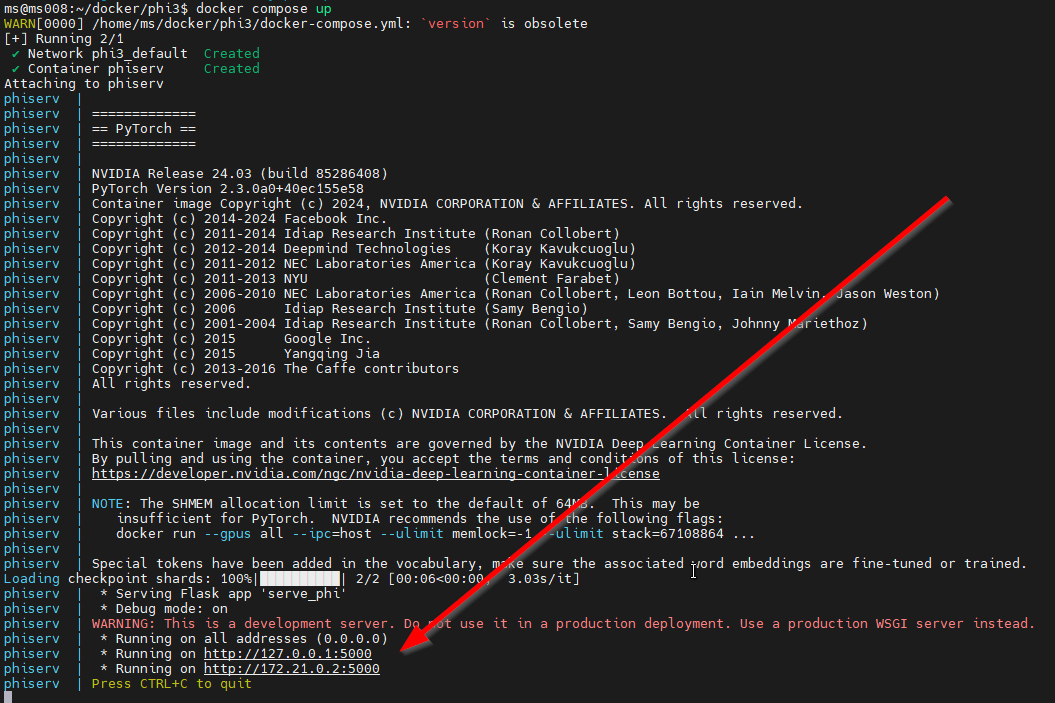
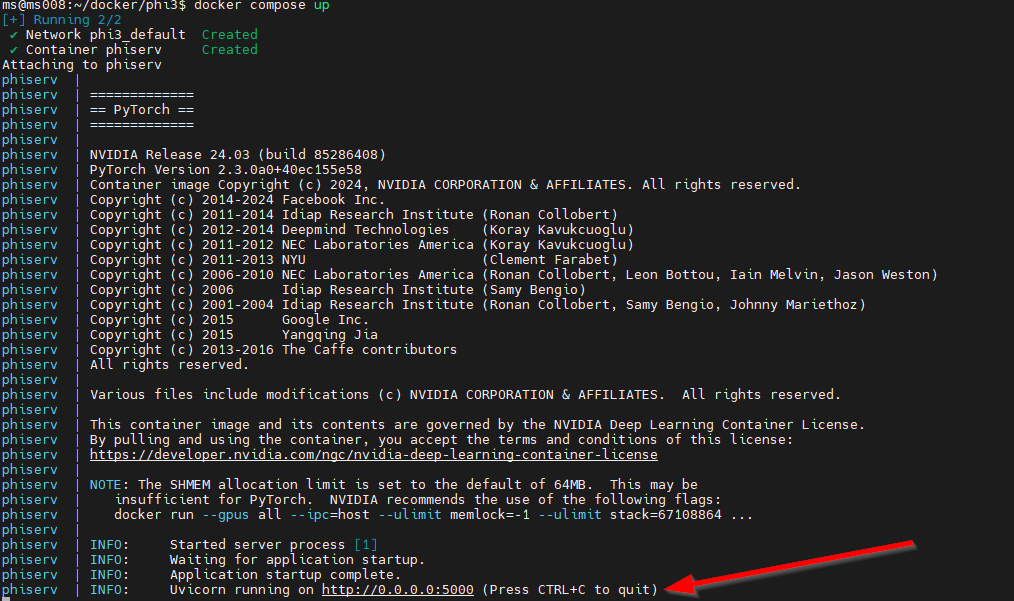
FastAPI async support

Changed region(s): [[0.0, 0.0, 0.9783, 1.0], [0.8866, 0.2696, 0.9172, 0.2995]]

diff --git a/03_serving_phi3-vision/app/serve_phi_fastapi.py b/03_serving_phi3-vision/app/serve_phi_fastapi.py
@@ -1,0 +1,153 @@
+
+import os
+from os.path import join, dirname
+
+import time
+import numpy as np
+from datetime import datetime
+
+from dotenv import load_dotenv
+
+# Import necessary libraries
+import cv2
+from PIL import Image
+
+import torch
+from transformers import AutoModelForCausalLM
+from transformers import AutoProcessor
+from transformers import BitsAndBytesConfig
+
+from concurrent.futures import ProcessPoolExecutor
+
+import asyncio
+from typing import Annotated, Union
+from fastapi import FastAPI, UploadFile, Form, Response, Request, Depends, status,File
+from fastapi.responses import PlainTextResponse
+from starlette.middleware.cors import CORSMiddleware
+
+import uvicorn
+
+# load configuration from env file
+dotenv_path = join(dirname(__file__), '.env')
+load_dotenv(dotenv_path)
+# load environment variable 
+env_model = os.environ.get("MODEL")
+env_model = 'microsoft/Phi-3-vision-128k-instruct' if env_model is None else env_model
+
+
+app = FastAPI()
+
+app.add_middleware(CORSMiddleware,
+                   allow_origins=["*"],
+                   allow_methods=["*"],
+                   allow_headers=["*"])
+
+
+model = None
+processor = None
+
+# load phi3-vision model
+def create_model():
+    global model
+    global processor    
+
+    # Load processor
+    processor = AutoProcessor.from_pretrained(env_model, trust_remote_code=True)
+
+    # Define BitsAndBytes configuration for 4-bit quantization
+    nf4_config = BitsAndBytesConfig(
+        load_in_4bit=True,
+        bnb_4bit_quant_type="nf4",
+        bnb_4bit_use_double_quant=True,
+        bnb_4bit_compute_dtype=torch.bfloat16,
+    )
+
+    # Load model with 4-bit quantization and map to CUDA
+    model = AutoModelForCausalLM.from_pretrained(
+        env_model,
+        device_map="cuda:0",
+        trust_remote_code=True,
+        torch_dtype="auto",
+        # quantization_config=nf4_config, 
+    )
+
+    # evaluate model
+    model.eval() 
+
+
+def model_predict(prompt,im_pil):
+    ts = time.time()
+    # vector = sbertmodel.encode('How big is London')
+    inputs = processor(prompt, [im_pil], return_tensors="pt").to("cuda:0")
+    # Generate text response using model
+    generate_ids = model.generate(
+        **inputs,
+        eos_token_id=processor.tokenizer.eos_token_id,
+        max_new_tokens=1500,
+        do_sample=False,
+    )    
+    # Remove input tokens from generated response
+    generate_ids = generate_ids[:, inputs["input_ids"].shape[1] :]
+
+    # Decode generated IDs to text
+    response = processor.batch_decode(generate_ids, skip_special_tokens=False, clean_up_tokenization_spaces=True)[0]
+
+    return response
+
+
+# setup process pooling
+pool = ProcessPoolExecutor(max_workers=1, initializer=create_model)
+
+
+# ----
+user_prompt = '<|user|>\n'
+assistant_prompt = '<|assistant|>\n'
+prompt_suffix = "<|end|>\n"
+
+
+
+# FRONTEND
+@app.get('/')
+async def home():
+    return PlainTextResponse('Phi3-Vision OCR.', status_code=status.HTTP_200_OK) 
+
+@app.post("/ocr")
+async def get_ocr_json(file: Union[UploadFile, None] = None, prompt: Annotated[str, Form()]=None):
+
+    # Validate 
+    if file == None:
+        return PlainTextResponse('Upload file for OCR...', status_code=status.HTTP_400_BAD_REQUEST) 
+
+    # prepare prompt - default if not provided
+    if prompt == None or len(prompt) < 5:
+        prompt = user_prompt + "<|image_1|>\nOCR the text of the image as is OCR:" + prompt_suffix #+ assistant_prompt
+    else:
+        prompt =  user_prompt + "<|image_1|>\n" + prompt + prompt_suffix #+ assistant_prompt
+
+    # get process id
+    worker_pid = os.getpid()
+    print(f"Handling OCR request with worker PID: {worker_pid}")
+
+    try:
+        loop = asyncio.get_event_loop()
+        start_time = time.time()
+        # get image
+        img = cv2.imdecode(np.frombuffer(file.file.read(), np.uint8), cv2.IMREAD_COLOR)
+        img = cv2.cvtColor(img, cv2.COLOR_BGR2RGB)
+        im_pil = Image.fromarray(img)
+
+        # worker should be initialized outside endpoint to avoid cold start
+        response = await loop.run_in_executor(pool, model_predict,prompt,im_pil)
+
+        end_time = time.time()
+        processing_time = end_time - start_time
+
+        print(f"Processing Time: {processing_time}")        
+
+        return str(response)
+    except Exception as e:
+        return PlainTextResponse(str(e), status_code=status.HTTP_500_INTERNAL_SERVER_ERROR)        
+
+if __name__ == "__main__":
+   uvicorn.run("serve_phi_fastapi:app", host="0.0.0.0", port=5000, reload=False)
+

diff --git a/03_serving_phi3-vision/README.md b/03_serving_phi3-vision/README.md
@@ -1,6 +1,6 @@
 
 # Inference using Microsoft phi3-vision model
-Microsoft Phi3 vision language model, the latest state-of-the-art AI technology for natural language processing. This model enables organizations to unlock the full potential of their unstructured data by providing insights and actionable intelligence. This containerized implementation of a Python/Flask-based web server allows you to host the Phi3 vision model on-premise, streamlining runtime inference and enabling seamless integration with your existing infrastructure.
+Microsoft Phi3 vision language model, the latest state-of-the-art AI technology for natural language processing. This model enables organizations to unlock the full potential of their unstructured data by providing insights and actionable intelligence. This containerized implementation of a Python/FastAPI async web server allows you to host the Phi3 vision model on-premise, streamlining runtime inference and enabling seamless integration with your existing infrastructure. By hosting the Phi3 Vision Language Model locally, users can ensure data security and privacy while enjoying the benefits of real-time language processing capabilities.
 
 This simplified inference server is specifically designed for small-scale deployments, supporting up to 1-5 users, making it an ideal solution for organizations looking to implement language processing capabilities without significant upfront investments. With this innovative technology, you can unlock the power of Phi3 vision and start driving business value through enhanced decision-making, improved customer engagement, and more.
 
@@ -10,6 +10,9 @@ The Phi3-vision language model inference server offers a straightforward, REST-b
 2. REST APIs for Integration: Seamlessly integrate your Phi3 vision model with other systems through a robust REST API framework, enabling a range of applications and use cases.
 3. Quantized Model Support: Take advantage of optimized performance by supporting quantized models, perfect for resource-constrained environments.
 
+## Updates
+- switched to async web server using FastAPI and uvicorn for better scalability with CUDA GPU support
+- original version using Flask to server the model with CUDA GPU support
 
 ## Deliverables
 - REST Interface to allow interaction with Phi-3 model
